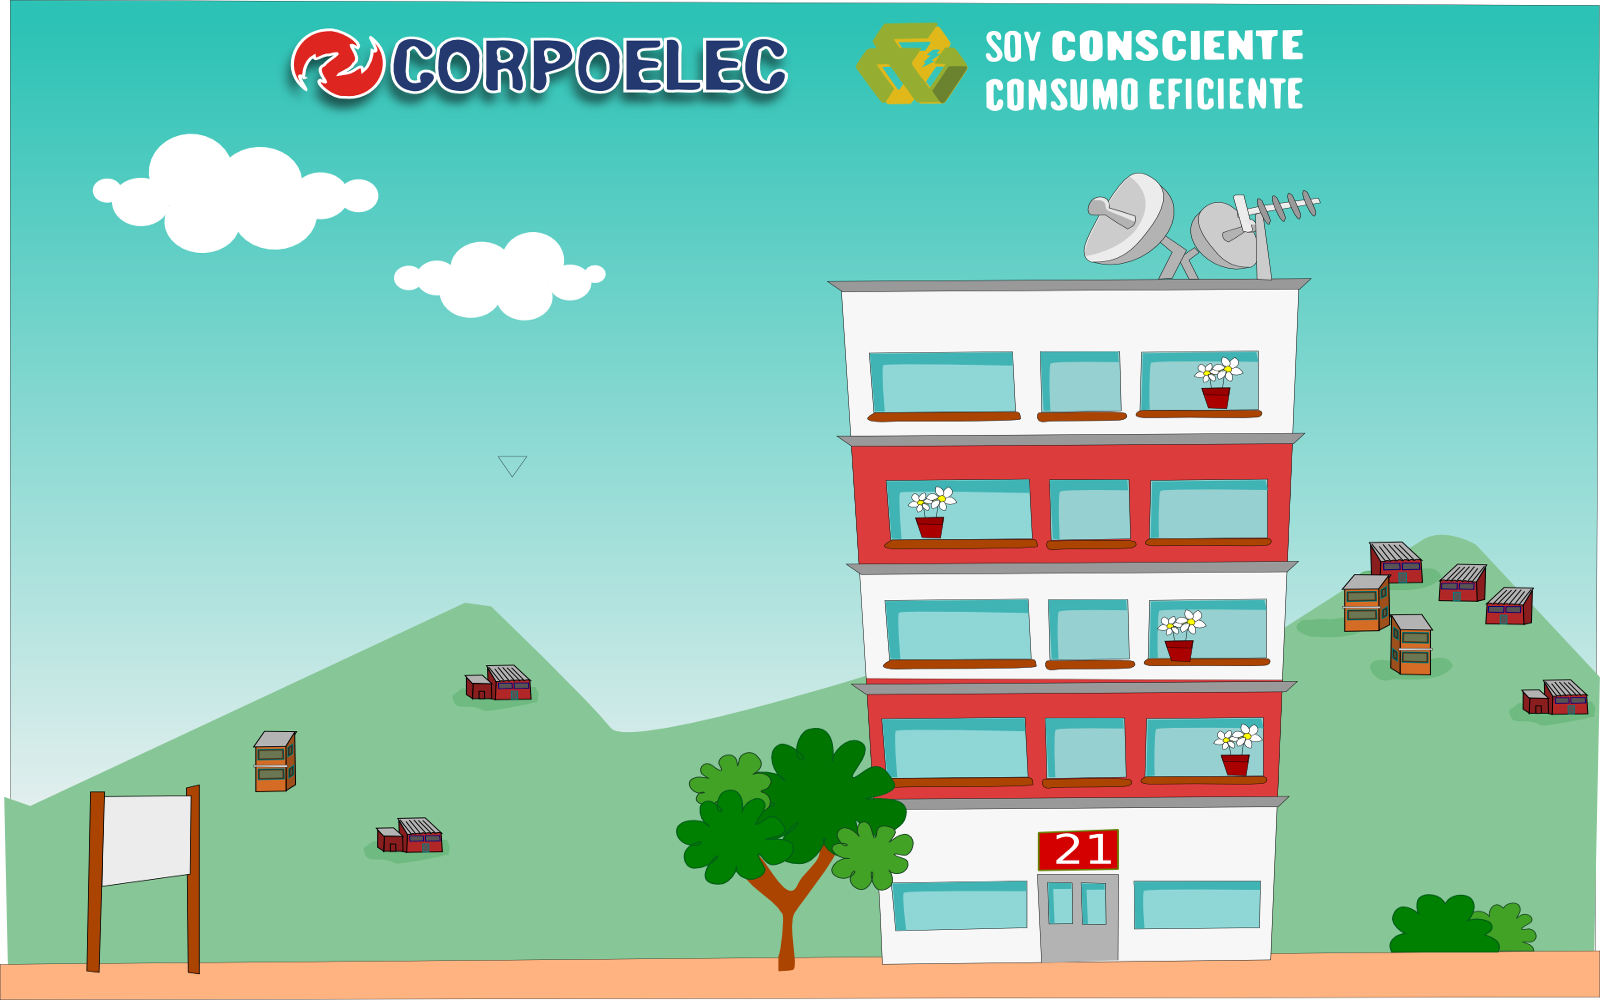
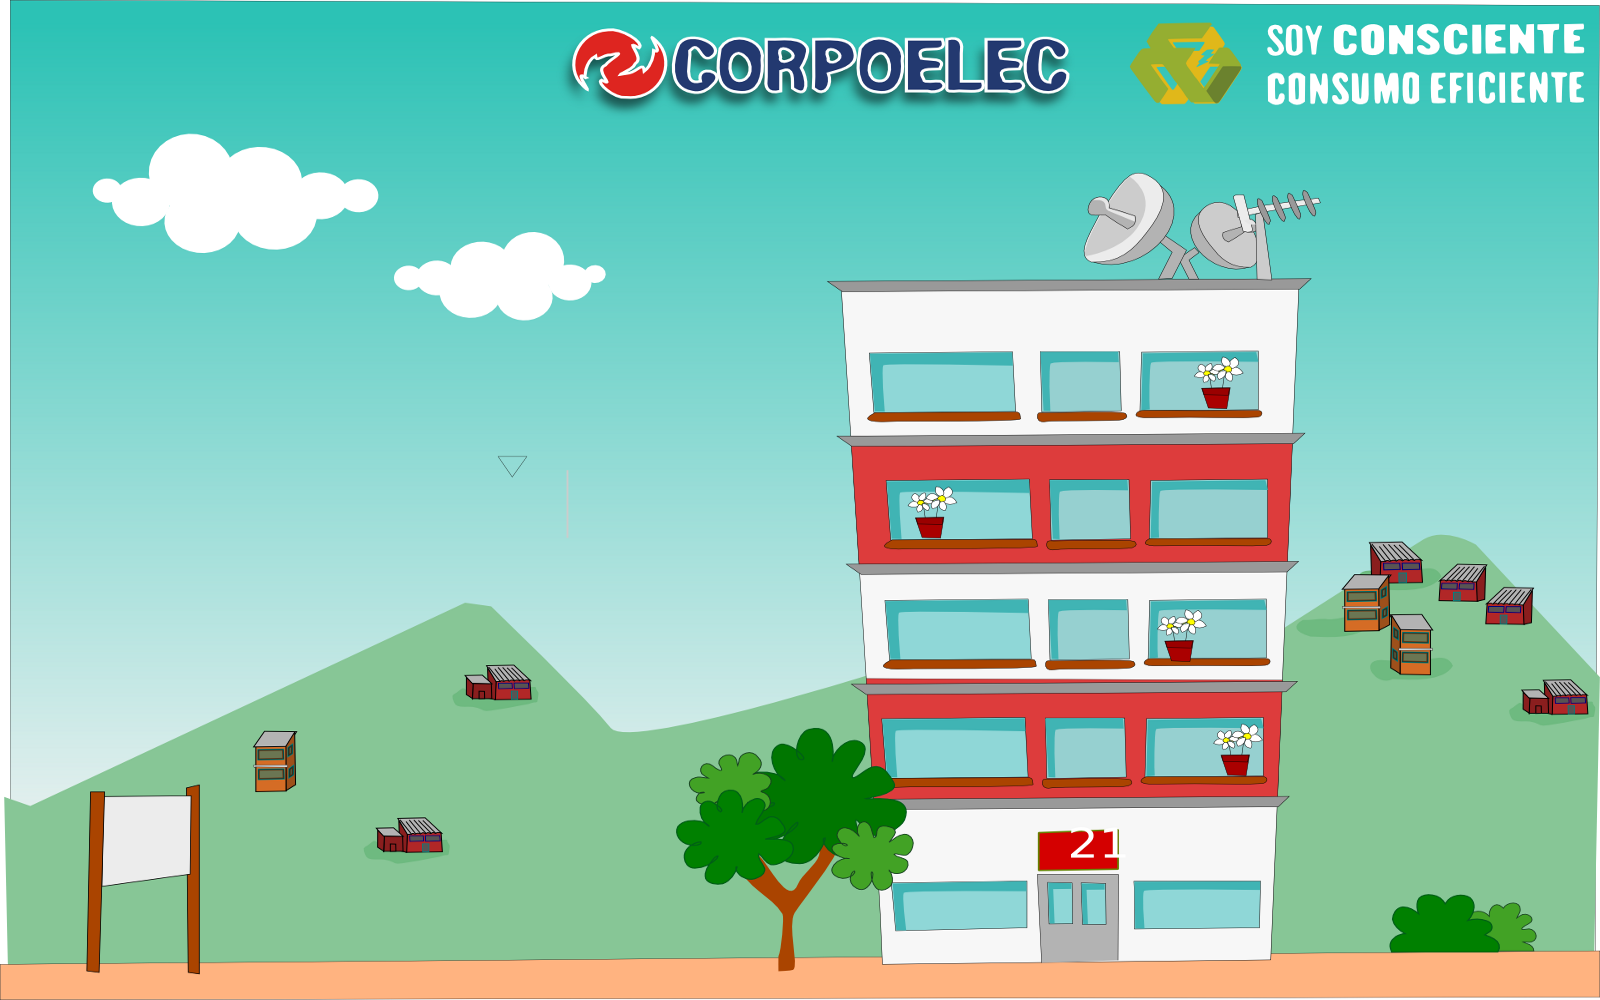
cambiando loading screen

Changed region(s): [[0.1562, 0.0, 1.0, 0.124], [0.6562, 0.806, 0.7188, 0.868]]

diff --git a/js/play.js b/js/play.js
@@ -21,3 +21,139 @@ game.PlayScreen = me.ScreenObject.extend({
 
 
 });
+
+
+me.ProgressBar = me.Renderable.extend({
+
+    init: function(posVector, w, h, padding) {
+        this.parent(posVector, w, h);
+
+        this.forceRedraw = false;
+        this.progressWidth = 0;
+        this.progressPadding = ((typeof(padding) === "undefined") ?
+                                new me.Vector2d(0, 0) :
+                                padding);
+
+        this.setColors('white', 'black');
+
+        this.text = null;
+
+        this.font = new me.Font(
+            "century gothic", 12, "white", "middle"
+        );
+    },
+
+    onProgressUpdate : function(progress, text) {
+        this.progressWidth = Math.floor(progress * this.width);
+        this.forceRedraw   = true;
+
+        this.text = ((typeof(text) === "undefined") ?
+                     null :
+                     text);
+    },
+
+    update : function() {
+        if (this.forceRedraw === true) {
+            this.forceRedraw = false;
+            return true;
+        }
+        return false;
+    },
+
+    draw : function(context) {
+
+        context.fillStyle = this.backgroundColor;
+        context.fillRect(
+            this.pos.x,
+            this.pos.y,
+            this.width,
+            this.height
+        );
+
+        context.fillStyle = this.foregroundColor;
+        context.fillRect(
+            this.pos.x         + this.progressPadding.x,
+            this.pos.y         + this.progressPadding.y,
+            this.progressWidth - this.progressPadding.x * 2,
+            this.height        - this.progressPadding.y * 2
+        );
+
+        if (this.text === null)
+            return;
+
+        this.font.draw(
+            context,
+            this.text,
+            this.pos.x + this.progressPadding.x + 2,
+            this.pos.y + this.progressPadding.y
+        );
+    },
+
+    setColors : function(foreground, background) {
+        this.foregroundColor = foreground;
+        this.backgroundColor = background;
+    }
+});
+
+
+
+
+var BackgroundImageThatOnlyDrawsWhenAsked = me.SpriteObject.extend({
+
+    init : function(image, x, y, w, h) {
+        this.parent(x, y, image);
+        this.anchorPoint = new me.Vector2d(0, 0);
+        this.willForceDraw = false;
+    },
+
+    draw : function(context) {
+
+        if (this.willForceDraw) {
+            this.willForceDraw = false;
+            this.parent(context);
+        }
+    },
+
+    forceDraw : function() {
+        this.willForceDraw = true;
+    }
+
+});
+
+
+game.CustomLoadingScreen = me.ScreenObject.extend({
+
+    "init" : function() {
+        this.parent(true);
+        this.handler = null;
+    },
+
+    "onResetEvent" : function() {
+
+        this.backgroundImage = new BackgroundImageThatOnlyDrawsWhenAsked(me.loader.getImage("logo"), 500, 500, me.game.viewport.width, me.game.viewport.height);
+        this.backgroundImage.forceDraw();
+        me.game.world.addChild(this.backgroundImage, 1);
+
+        this.progressBar = new me.ProgressBar(
+            new me.Vector2d(30,    450),
+            me.game.viewport.width-7,  40,
+            new me.Vector2d(0,    1)
+        );
+        this.progressBar.setColors('green', 'black');
+        me.game.world.addChild(this.progressBar, 1);
+
+        this.handler = me.event.subscribe(
+            me.event.LOADER_PROGRESS,
+            this.onProgressUpdate.bind(this)
+        );
+    },
+
+    "onProgressUpdate" : function(progress, res) {
+        this.progressBar.onProgressUpdate(progress);
+    },
+
+    "onDestroyEvent" : function() {
+        me.event.unsubscribe(this.handler);
+    }
+});
+

diff --git a/js/game.js b/js/game.js
@@ -23,11 +23,35 @@ var game = {
         
         me.debug.renderHitBox = true;
 
+        me.loader.load(
+
+            {
+                name : "logo",
+                type : "image",
+                src  : "data/img/logo.png"
+            },
+
+            this.goToLoadingScreen.bind(this),
+            function() {
+                alert("No se han podido cargar algunos elementos!");
+            }
+        );
+
         me.audio.init("mp3,ogg");
+        //me.loader.onload = this.loaded.bind(this);
+        //me.loader.preload(game.resources);
+        //me.state.change(me.state.LOADING);
+    
+    },
+
+
+    goToLoadingScreen : function() {
+
+        me.state.set(me.state.LOADING, new game.CustomLoadingScreen());
         me.loader.onload = this.loaded.bind(this);
         me.loader.preload(game.resources);
         me.state.change(me.state.LOADING);
-    
+
     },
 
 
@@ -91,8 +115,8 @@ var game = {
         me.state.transition("fade","#000000", 250);
 
 
-        me.input.bindKey(me.input.KEY.Z, "prender", true, false);
-        me.input.bindPointer(me.input.mouse.RIGHT, me.input.KEY.Z);
+        //me.input.bindKey(me.input.KEY.Z, "prender", true, false);
+        //me.input.bindPointer(me.input.mouse.RIGHT, me.input.KEY.Z);
 
 
         me.state.change(me.state.PLAY);

diff --git a/js/HUD.js b/js/HUD.js
@@ -39,9 +39,9 @@ game.HUD.Pila = me.Renderable.extend({
 	init: function(x, y){
 
 		this.parent(new me.Vector2d(x,y), 10, 10);
-		this.pila1 = new me.SpriteObject(1, 1, me.loader.getImage("pila1"), 384, 128);	
-		this.pila2 = new me.SpriteObject(1, 1, me.loader.getImage("pila2"), 384, 128);	
-		this.pila3 = new me.SpriteObject(1, 1, me.loader.getImage("pila3"), 384, 128);	
+		this.pila1 = new me.SpriteObject(1, 10, me.loader.getImage("pila1"), 384, 128);	
+		this.pila2 = new me.SpriteObject(1, 10, me.loader.getImage("pila2"), 384, 128);	
+		this.pila3 = new me.SpriteObject(1, 10, me.loader.getImage("pila3"), 384, 128);	
 		
 
 		this.score2 = -1;

diff --git a/index.html b/index.html
@@ -69,7 +69,7 @@
 		<script type="text/javascript" src="js/funciones.js"></script>
 		
 
-		<script type="text/javascript" src="data/escena_01/Escena1Entities.js"></script>
+		<script type="text/javascript" src="data/escena_01/Escena1Entities.js"></script> 
 		<script type="text/javascript" src="data/escena_02/Escena2Entities.js"></script>
 		<script type="text/javascript" src="data/escena_03/Escena3Entities.js"></script>
 		<script type="text/javascript" src="data/escena_04/Escena4Entities.js"></script>

diff --git a/js/resources.js b/js/resources.js
@@ -60,6 +60,9 @@ game.resources = [
     {name:"pila3", type:"image", src:"data/img/pila3.png"},
 
 
+    {name:"logo", type:"image", src:"data/img/logo.png"},
+
+
 
     {name:"32x32_font", type:"image", src:"data/img/font/32x32_font.png"},
     {name: "background", type:"audio", src:"data/sound/", channel:"2"},

diff --git a/data/escena_02/Escena2Entities.js b/data/escena_02/Escena2Entities.js
@@ -257,7 +257,6 @@ game.RadioR = me.ObjectEntity.extend({
 
         }else{
 
-            game.data.score -= 50;
             me.audio.play("apagar");
             me.audio.pause("radio");
             this.renderable.setCurrentAnimation("radio_off");
